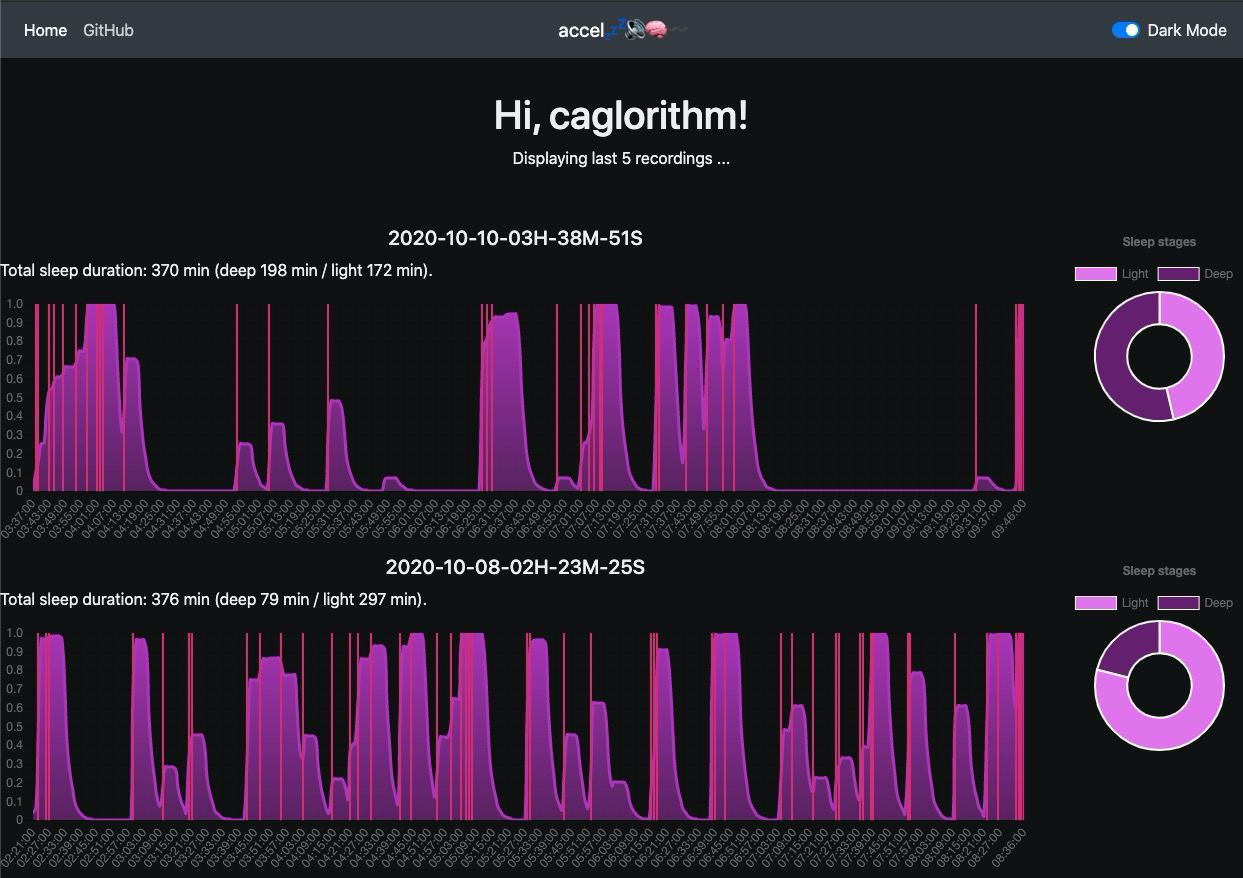
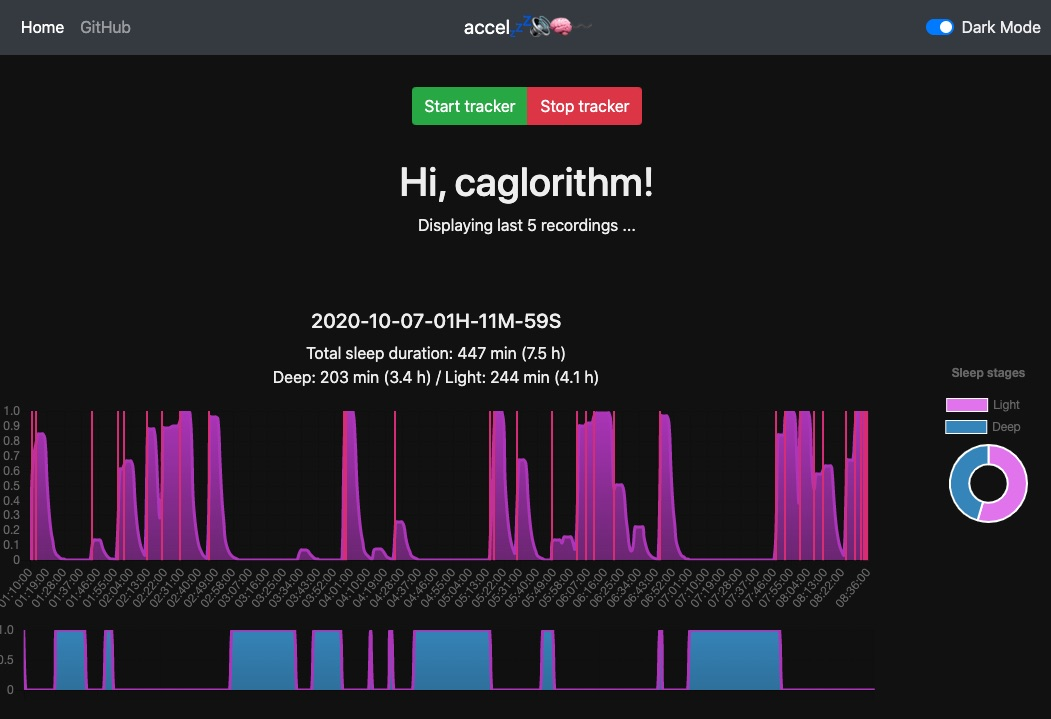
display single run

diff --git a/interface/app/get_data.py b/interface/app/get_data.py
@@ -20,14 +20,19 @@ def get_run_names(nruns=5, filename=H5_FILE):
     runs = runs[::-1]
     return runs
 
-def get_runs(nruns=5, h5_filename=H5_FILE):
+def get_runs(nruns=5, h5_filename=H5_FILE, run_name = None):
 
-    runs = get_run_names(h5_filename)
+    if run_name is None:
+        runs = get_run_names(h5_filename)
+    else:
+        runs = [run_name]
+        
     n_valid_runs = 0
     nruns = int(nruns)
     data = {}
 
     for run_name in runs:
+        print("Loading run {}".format(run_name))
         # only return nruns runs
         if n_valid_runs >= nruns:
             break

diff --git a/interface/app/routes.py b/interface/app/routes.py
@@ -27,14 +27,14 @@ sl = None
 def index():
     NRUNS_DEFAULT = 5
     n_runs = request.args.get('runs')
-    runName = request.args.get('run')
+    run_name = request.args.get('run')
 
     n_runs = n_runs or NRUNS_DEFAULT
 
     user = {'username': 'caglorithm'}
 
 
-    data = get_runs(n_runs)
+    data = get_runs(n_runs, run_name = run_name)
     runs = []
     for i, (key, value) in enumerate(data.items()):
         runs.append(value)
